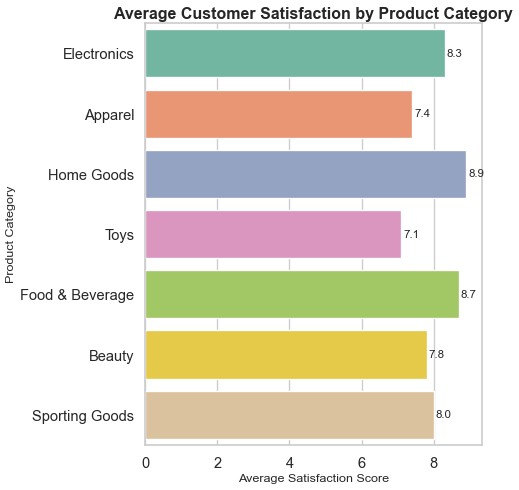
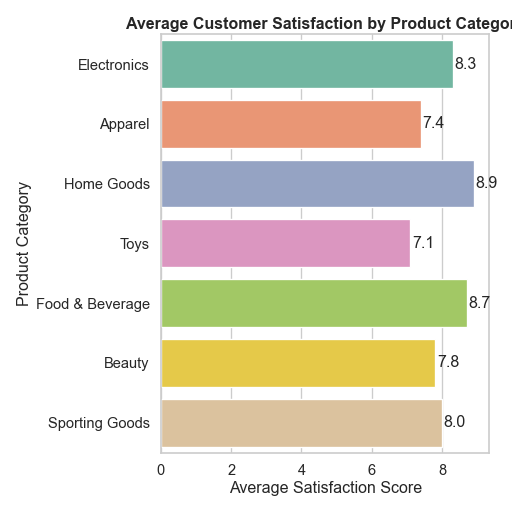
Trying more.

Changed region(s): [[0.0, 0.0, 1.0, 1.0]]

diff --git a/chart.py b/chart.py
@@ -2,7 +2,7 @@ import seaborn as sns
 import matplotlib.pyplot as plt
 import pandas as pd
 
-# Generate realistic synthetic data
+# Generate synthetic data for product categories
 data = {
     'Product Category': [
         'Electronics', 'Apparel', 'Home Goods', 
@@ -15,35 +15,28 @@ data = {
 
 df = pd.DataFrame(data)
 
-# Set Seaborn style and context for professional look
+# Set Seaborn style and context
 sns.set_style('whitegrid')
 sns.set_context('talk')
-
-# Set color palette
 palette = sns.color_palette('Set2')
 
-# Create figure with required size for 512x512 pixels
-plt.figure(figsize=(8, 8))
+plt.figure(figsize=(8, 8))  # 8*64=512px
 
-# Seaborn barplot
 ax = sns.barplot(
     x='Average Satisfaction Score', 
     y='Product Category', 
     data=df,
     palette=palette
 )
+plt.title('Average Customer Satisfaction by Product Category', weight='bold')
+plt.xlabel('Average Satisfaction Score')
+plt.ylabel('Product Category')
 
-# Add titles and labels
-plt.title('Average Customer Satisfaction by Product Category', fontsize=18, weight='bold')
-plt.xlabel('Average Satisfaction Score', fontsize=14)
-plt.ylabel('Product Category', fontsize=14)
-
-# Optional: Show values on bars for clarity
-for index, value in enumerate(df['Average Satisfaction Score']):
-    ax.text(value + 0.05, index, f'{value:.1f}', va='center', fontsize=13)
+for i, v in enumerate(df['Average Satisfaction Score']):
+    ax.text(v + 0.05, i, f'{v:.1f}', va='center')
 
 plt.tight_layout()
 
-# Save chart as PNG (512x512 pixels)
-plt.savefig('chart.png', dpi=64, bbox_inches='tight')
+# Exactly 512x512 pixels!
+plt.savefig('chart.png', dpi=64)
 plt.close()
